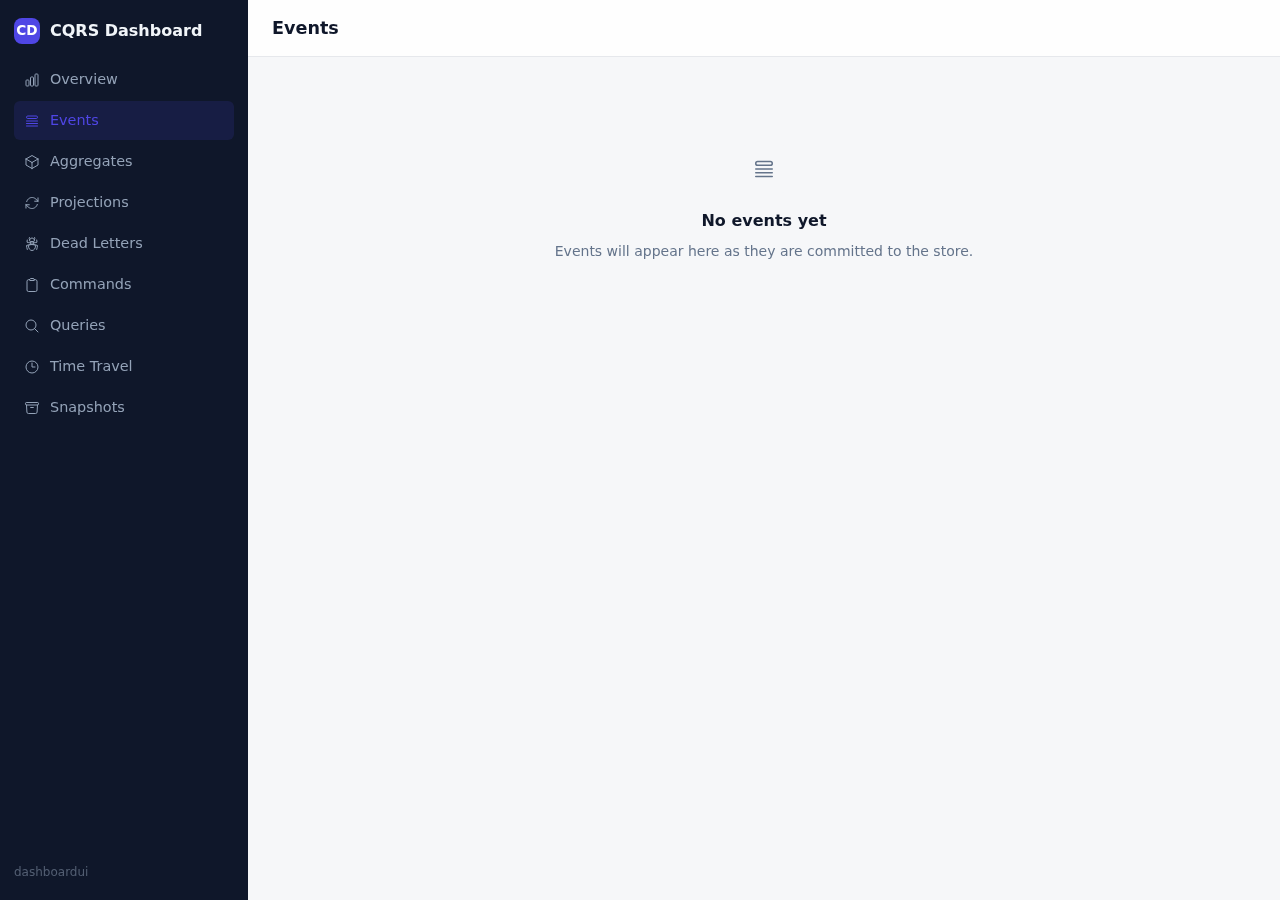
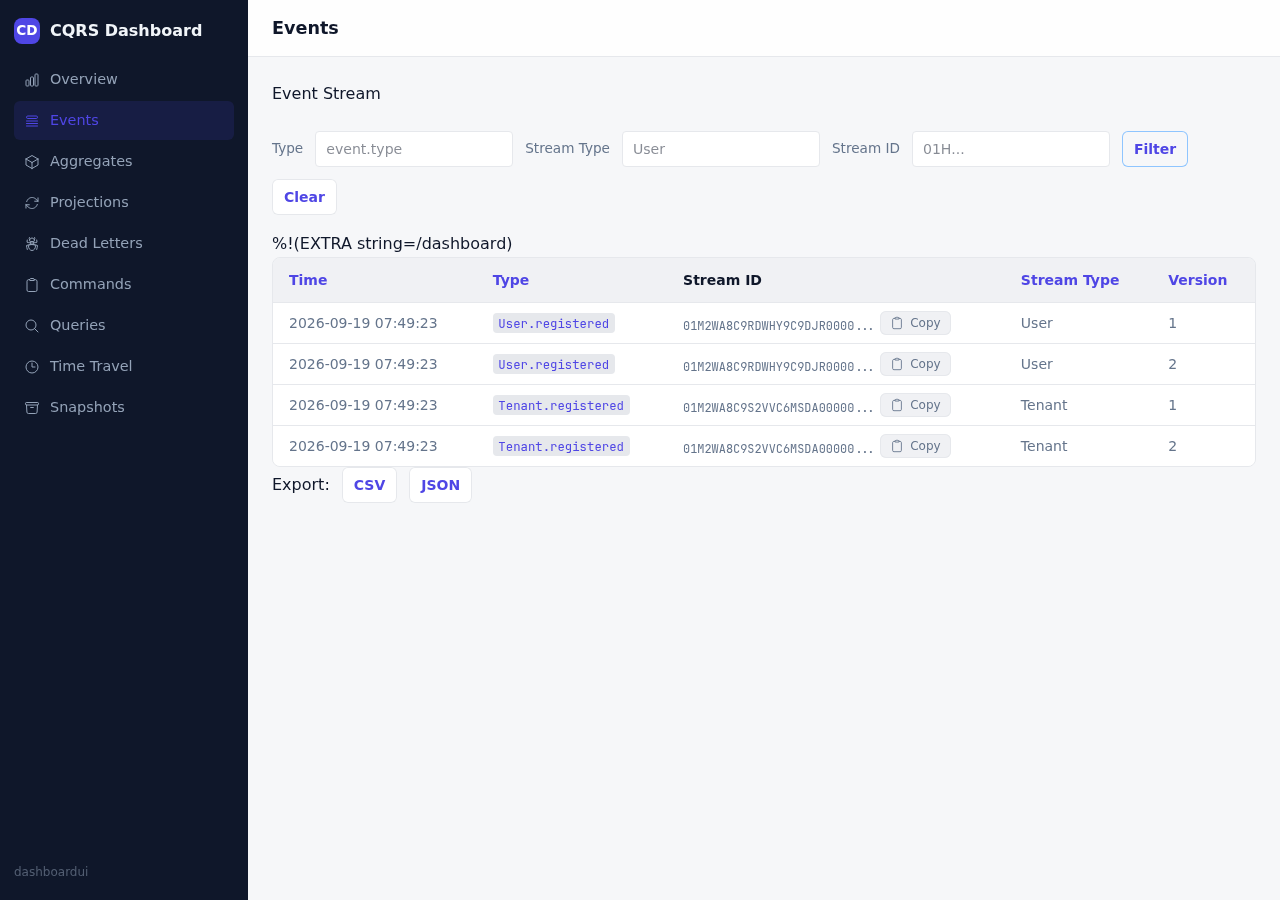
chore: auto-commit 3 changed file(s) (heuristic)

diff --git a/e2e/server/main.go b/e2e/server/main.go
@@ -65,6 +65,53 @@ func (emptySnapshotStore) LoadAtVersion(context.Context, id.StreamRef, event.Ver
 	return nil, nil
 }
 
+// demoProjection is a minimal projection.Projection: it processes every
+// event without error so the worker stays healthy for badge assertions.
+type demoProjection struct{}
+
+func (demoProjection) Name() string                          { return "demo-projection" }
+func (demoProjection) Handle(_ context.Context, _ event.Event) error { return nil }
+func (demoProjection) EventTypes() []event.Type              { return nil }
+
+// seedDashboard appends a few generic events across two streams and starts
+// the projection host, so the browser-truth specs assert real tables, badges,
+// and worker states instead of empty states.
+func seedDashboard(store *memorystorage.MemoryStore, host *projectionhost.Host) {
+	ctx := context.Background()
+
+	for _, streamType := range []string{"User", "Tenant"} {
+		aggID := id.NewStreamID()
+		ref := id.StreamRef{Type: id.StreamType(streamType), ID: aggID}
+
+		for v := uint64(1); v <= 2; v++ {
+			evt, eErr := event.New(
+				event.Type(streamType+".registered"),
+				aggID,
+				id.StreamType(streamType),
+				event.Version(v),
+				map[string]string{"seq": fmt.Sprintf("%d", v)},
+			)
+			if eErr != nil {
+				log.Fatalf("event.New: %v", eErr)
+			}
+			if aErr := store.AppendBatch(ctx, ref, []event.Event{evt}); aErr != nil {
+				log.Fatalf("AppendBatch: %v", aErr)
+			}
+		}
+	}
+
+	if host == nil {
+		return
+	}
+
+	if rErr := host.Register(demoProjection{}); rErr != nil {
+		log.Fatalf("host.Register: %v", rErr)
+	}
+	if sErr := host.Start(ctx); sErr != nil {
+		log.Fatalf("host.Start: %v", sErr)
+	}
+}
+
 func main() {
 	addr := flag.String("addr", ":18923", "listen address")
 
@@ -106,6 +153,7 @@ func main() {
 	if err != nil {
 		log.Fatalf("dashboardui.New: %v", err)
 	}
+	seedDashboard(dstore, host)
 	dash.Mount(mux, "/dashboard/")
 
 	// --- HTML page --- ({$}: exact root only, else it conflicts with the
